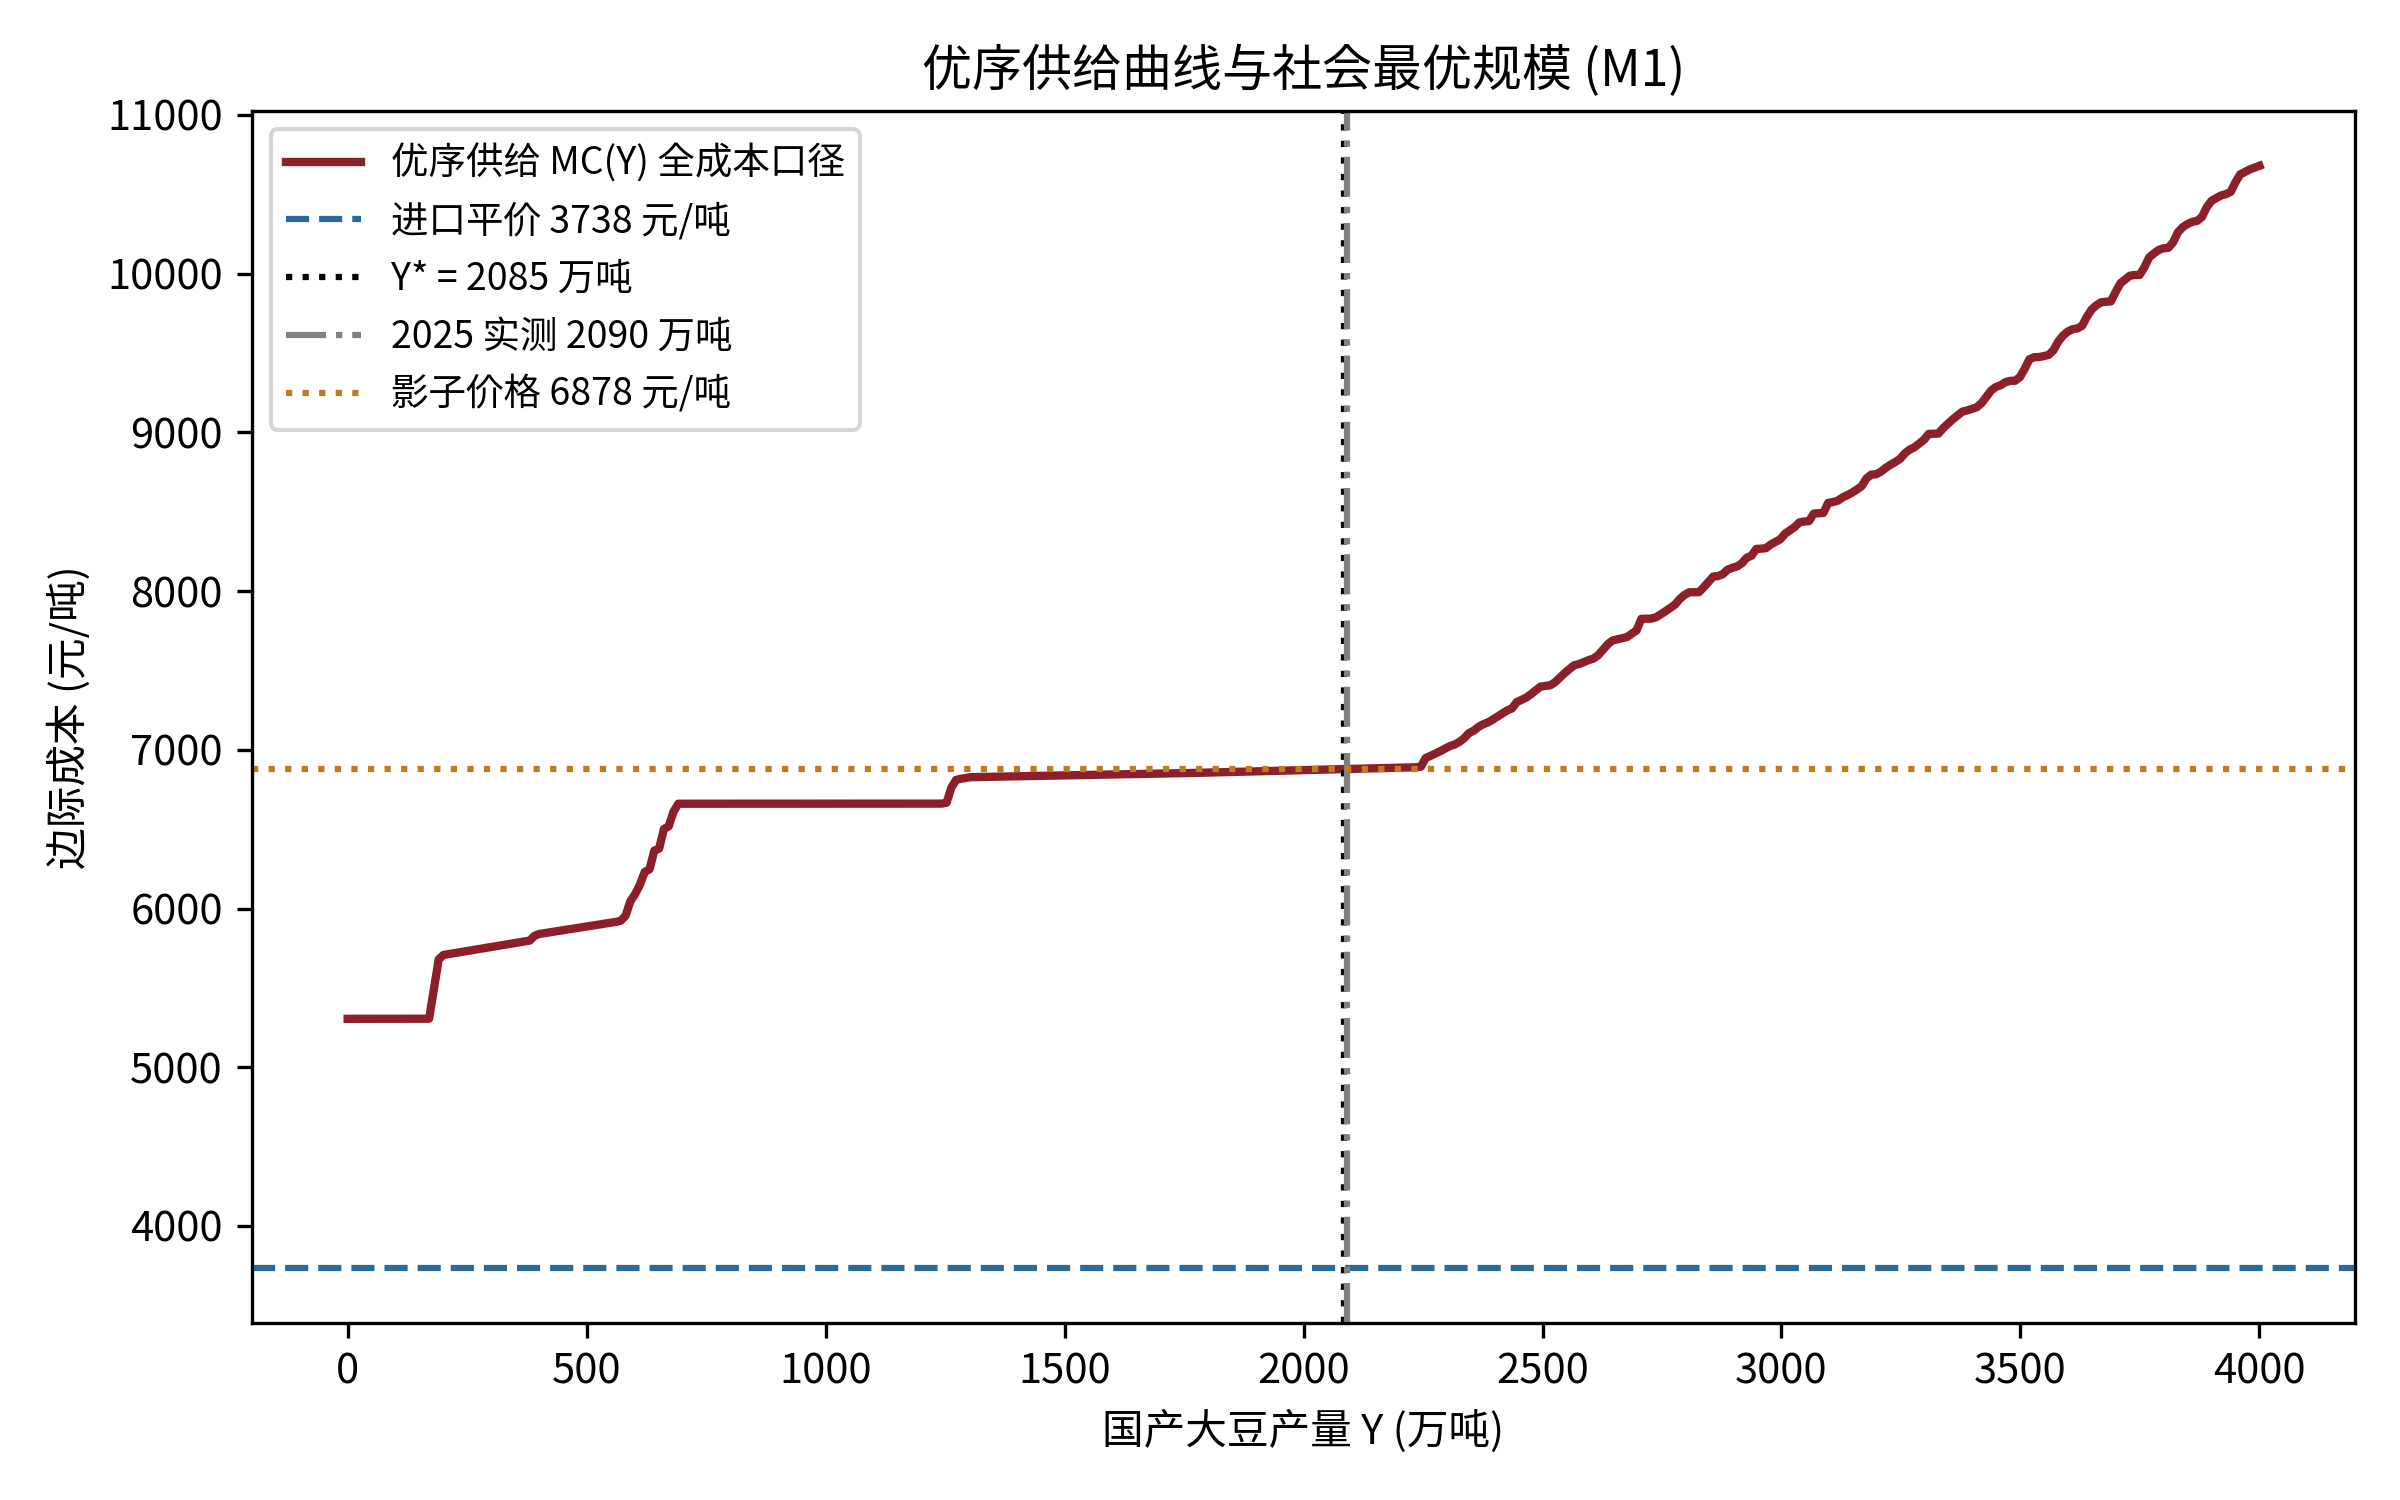
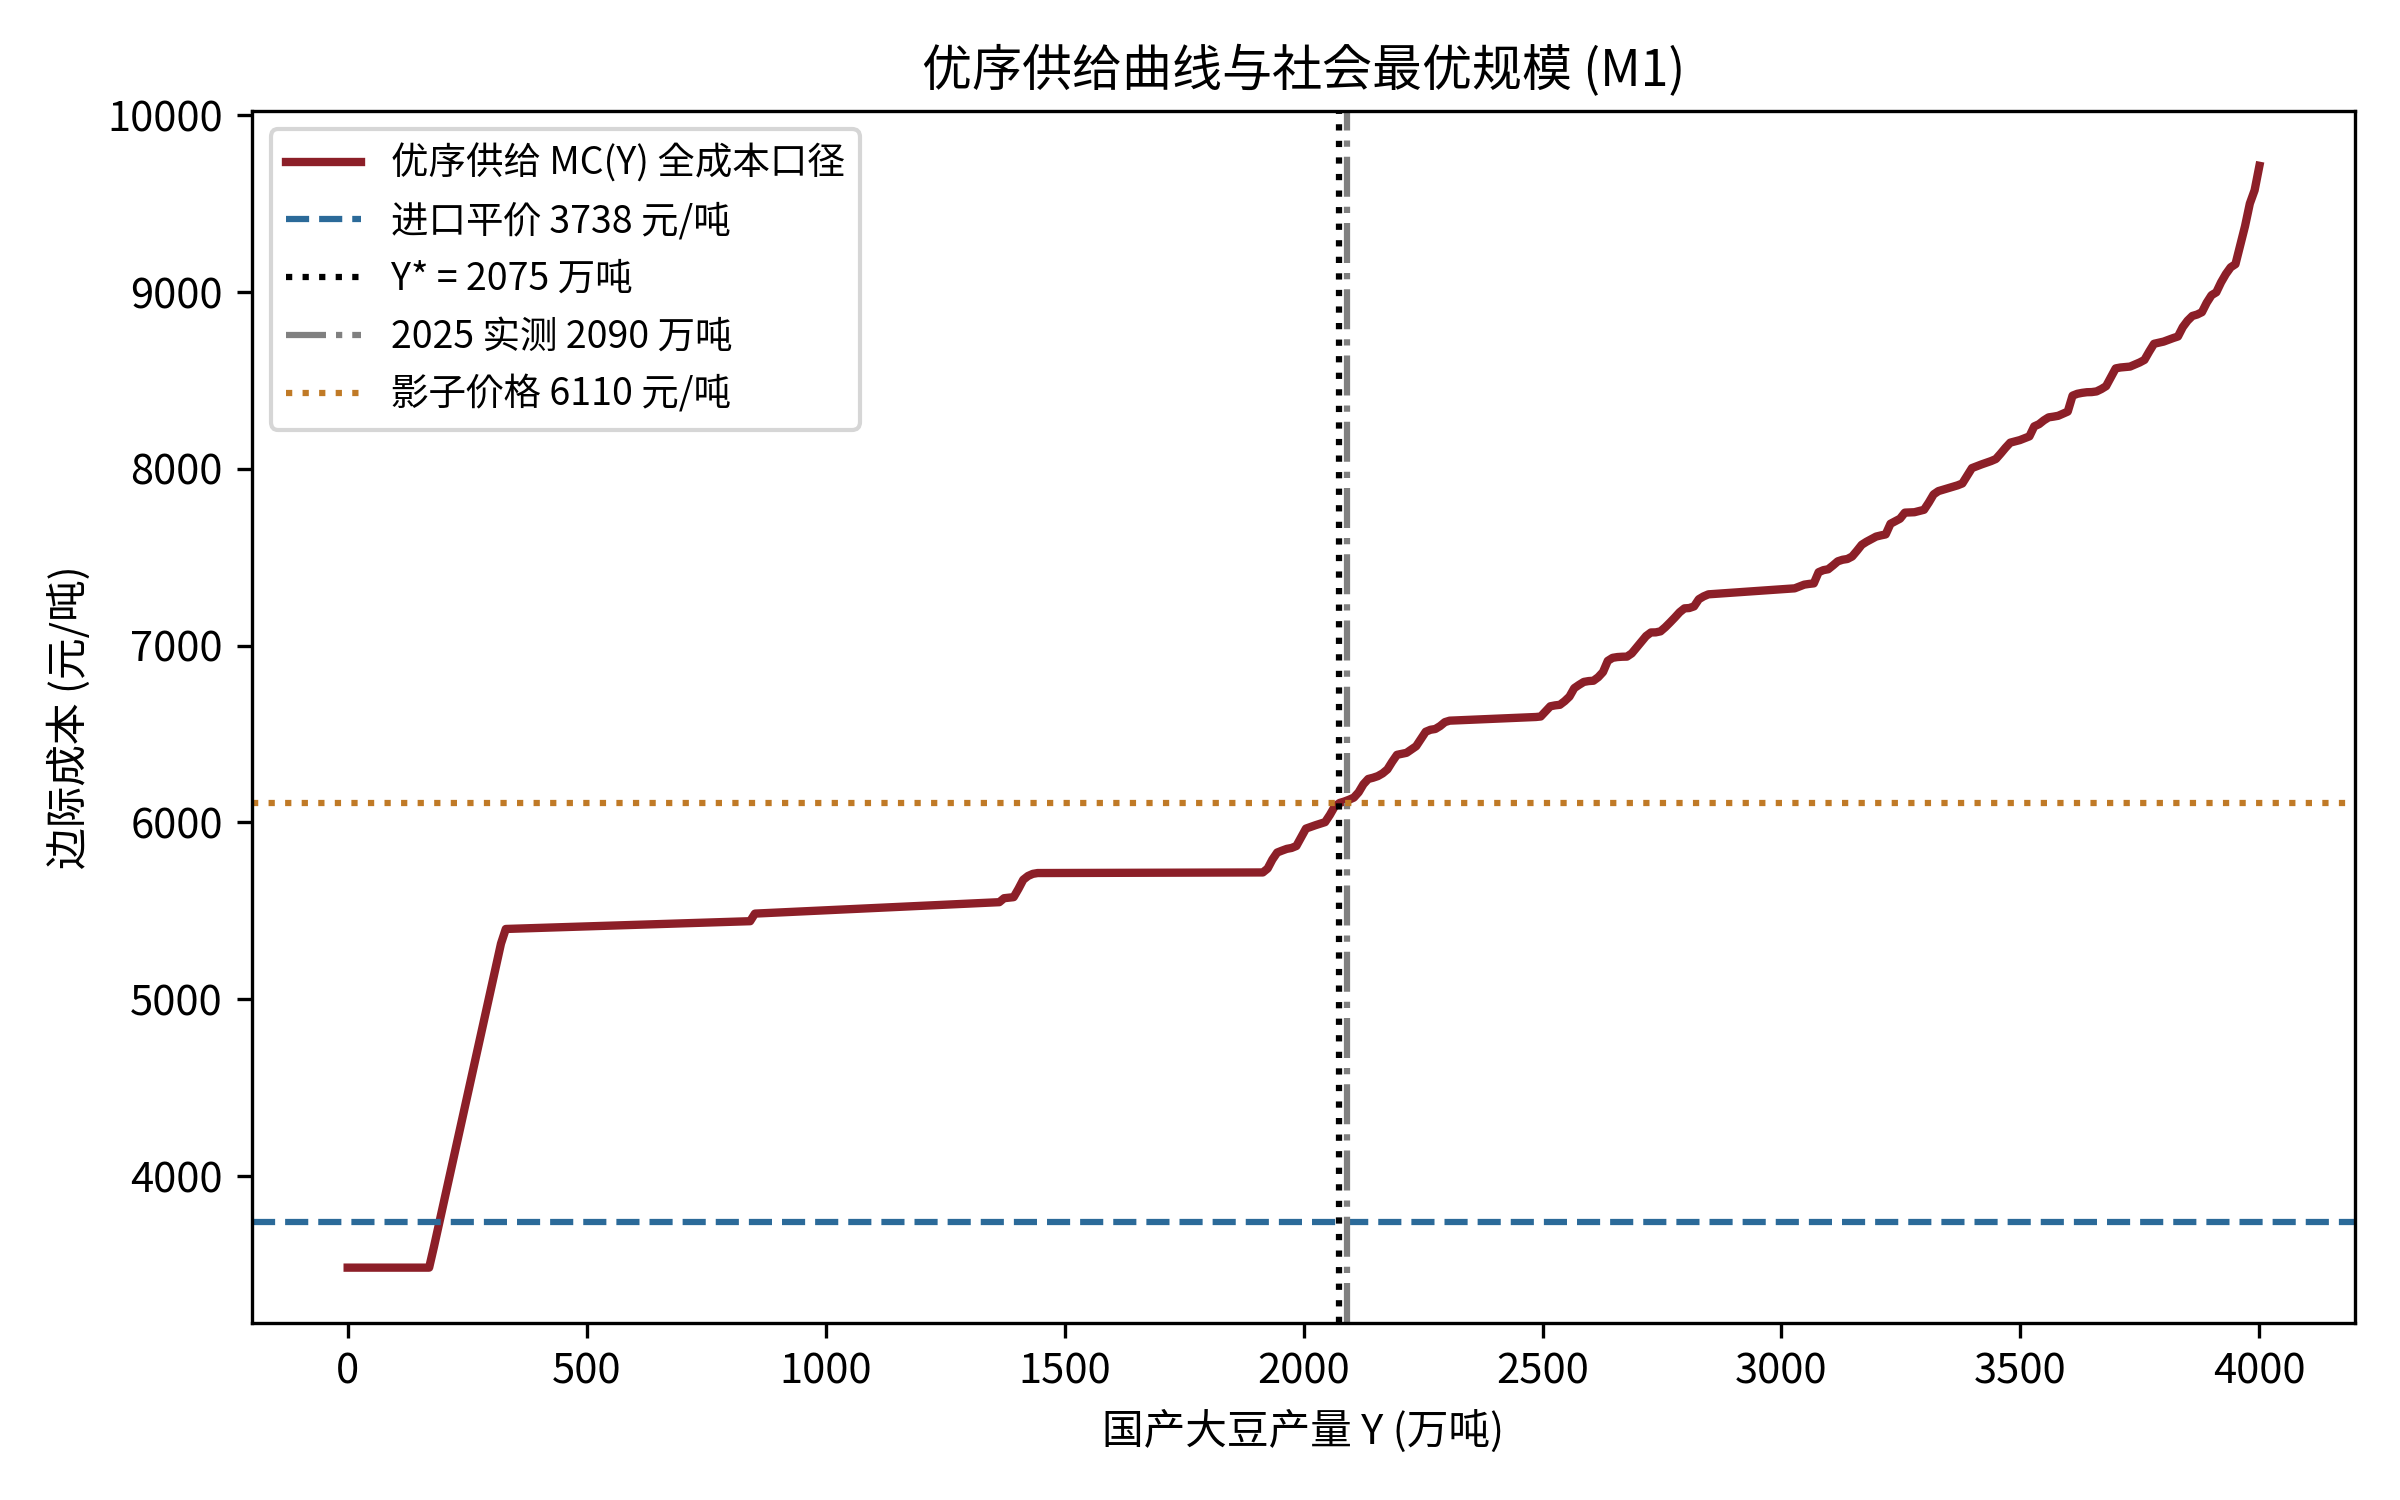
Auto-sync soybean_second_best: 2026-07-07T01:54:49+08:00

diff --git a/soybean_second_best/src/m4_abm.py b/soybean_second_best/src/m4_abm.py
@@ -154,10 +154,13 @@ class ABM:
             + self.pc_rho * np.log(self.p_corn) + self.pc_sig * z_corn))
         self.spread += 0.4 * (self.spread_anchor - self.spread) + rng.normal(0, 350)
         self.spread = float(np.clip(self.spread, -200, 2600))
-        # 食用需求底部: 上年国产量低于食用需求规模 F0 时, 食用溢价内生上升
-        # prem = prem0·(Y/F0)^(−1/ε_f)（进口豆不可替代食用需求, §3 与用户确认）
-        if self.Y_prev < self.F0:
-            floor = self.spread_anchor * (self.Y_prev / self.F0) ** (-1.0 / self.eps_food)
+        # 食用需求底部: 平滑产量 Ȳ 低于食用需求规模 F0 时, 食用溢价内生上升
+        # prem = prem0·(Ȳ/F0)^(−1/ε_f)（进口豆不可替代食用需求）。用两年平滑
+        # 产量避免单年冲击引发蛛网震荡（存量/库存缓冲的简化）。
+        self.Y_bar = getattr(self, "Y_bar", self.Y_prev)
+        self.Y_bar = 0.5 * self.Y_prev + 0.5 * self.Y_bar
+        if self.Y_bar < self.F0:
+            floor = self.spread_anchor * (self.Y_bar / self.F0) ** (-1.0 / self.eps_food)
             self.spread = float(max(self.spread, min(floor, 4000.0)))
         p_dom = self.p_imp + self.spread
         if pol["price_floor_tau"] > 0:
@@ -175,10 +178,14 @@ class ABM:
         sub_c = self.sub_corn_base if sub_c is None else np.broadcast_to(
             np.asarray(sub_c, float), self.reg_idx.shape)
         # 4. 种植选择 (Logit): ΔV = 大豆净收益 − 玉米净收益(动态)
+        #    + 转换成本 κ_s（Nerlove 局部调整: 农机/种子/轮作衔接的换茬摩擦,
+        #    使年际面积响应符合观测的部分调整特征, 长期弹性不受影响）
         base, q_i, prem, f_i = self._dv_terms(self.p_hat, sub, theta)
         corn_net = self._corn_net(self.p_corn_hat, sub_c)
         peer_r = pd.Series(self.soy_prev).groupby(self.reg_idx).mean().to_numpy()
+        kappa_s = sp.get("switch_cost_kappa", 120.0)
         dV = (base - corn_net
+              + kappa_s * (2.0 * self.soy_prev.astype(float) - 1.0)
               + sp["peer_effect_zeta2"] * 200.0 * (peer_r[self.reg_idx] - 0.5))
         p_soy = 1.0 / (1.0 + np.exp(-np.clip(dV / self.tau, -60, 60)))
         soy = rng.random(len(dV)) < p_soy
